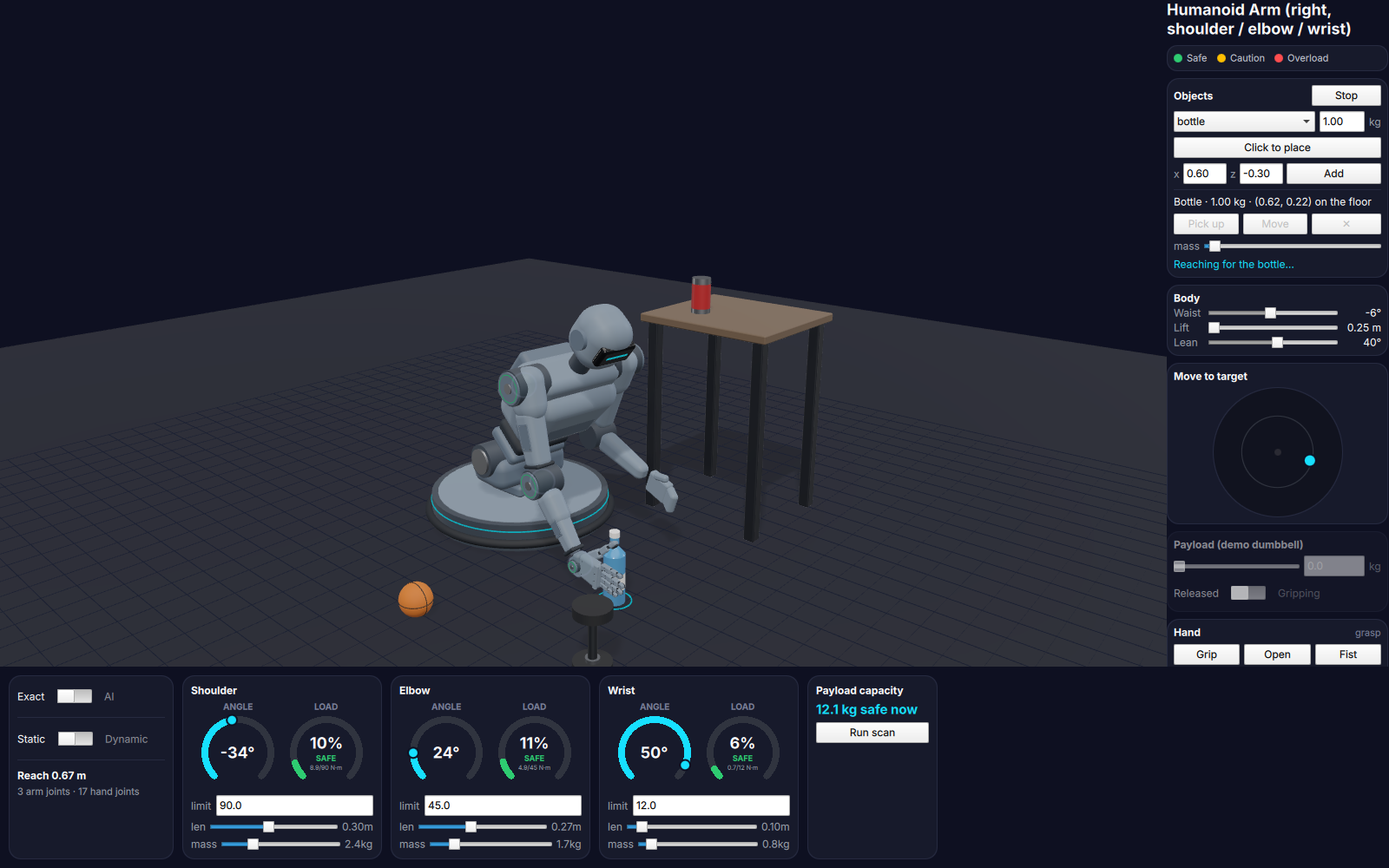
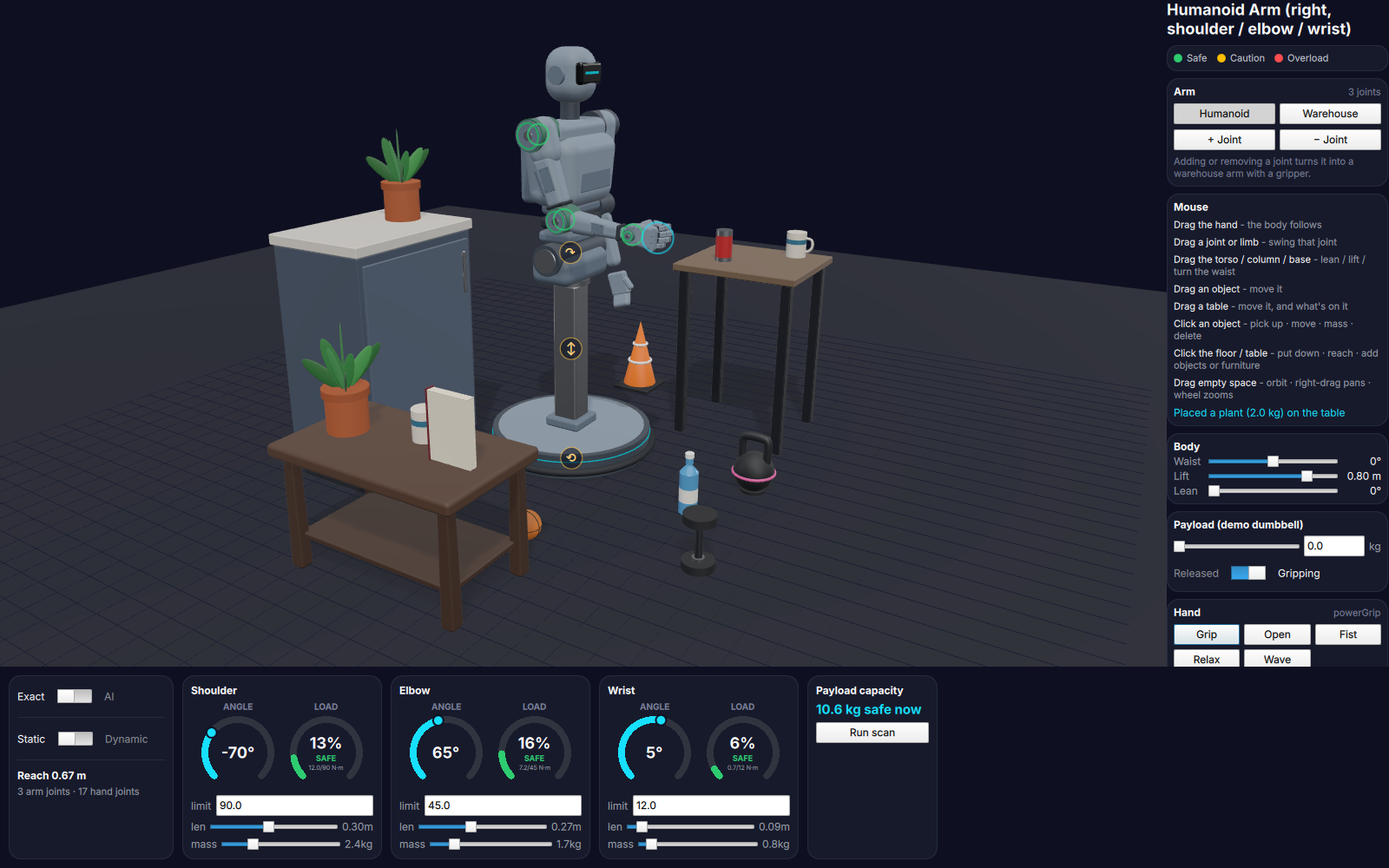
Rewrite the README for the Intro to AI midterm
Explains what the system does with fresh screenshots of the current app
(pick and place in four steps, overload colors, exact vs. neural-network
payload scan, dragging the hand, click menus, the hand, the warehouse
arm), where the AI is (agent/PEAS, the supervised-learning surrogate
with its real error numbers, search, optimization, planning), how the
physics and the interface work, and how to build, test and retrain.

diff --git a/README.md b/README.md
@@ -1,157 +1,242 @@
 # Humanoid Arm Load Analyzer
 
-**An interactive physics + AI tool for answering one question instantly: can this humanoid arm hold this weight, in this pose, without overloading a joint — and can the robot actually go pick it up?**
+**Can this robot hold that weight, in that pose, without overloading a joint, and can it go and pick the object up?**
 
-Built from scratch in C++ (kinematics, statics, full rigid-body dynamics), with a PyTorch-trained neural-network surrogate for the same torque computation, and a real-time Qt Quick 3D interface showing a humanoid on a mobile lift base — waist, lift and hip joints, a shoulder / elbow / wrist arm and a five-finger hand — that picks up the objects you put on the floor or the table, while every joint's load is analyzed live.
+A humanoid robot on a mobile lift base, simulated in real time. You put objects on the floor and on tables, drag the robot around with the mouse, and ask it to pick things up. Every joint's load is computed live: by an exact physics engine, or by a **neural network trained to imitate it**.
 
-![Full application overview](image/01-overview.png)
+> **Midterm project, Introduction to Artificial Intelligence**, by **HSley13**
+
+![The robot among furniture and objects](image/01-overview.png)
 
 ---
 
-## Why this exists
+## Contents
 
-Every joint of a humanoid robot's arm is driven by an actuator with a hard torque limit. Exceed it anywhere in the chain and the joint stalls, strains, or fails — and an arm held out straight with a bag in its hand is exactly where that happens first. Designers answer "how much can this arm carry, and where" once, at design time, for one set of limb lengths and masses. It can't answer "what if the forearm were longer," "what if the hand were heavier," or "what if the elbow were bent instead," because each of those needs the dynamics re-derived by hand.
+- [What it does](#what-it-does)
+- [Where the AI is](#where-the-ai-is)
+- [How it works](#how-it-works)
+- [Using it](#using-it)
+- [Tech stack](#tech-stack)
+- [Building and running](#building-and-running)
+- [Tests](#tests)
+- [Retraining the neural network](#retraining-the-neural-network)
+- [Project structure](#project-structure)
 
-This project removes that barrier: the arm's own geometry, mass, and payload are all editable live, and every "what if" is answered the instant it's asked — by dragging a slider, not by opening a textbook.
+---
 
-## What makes it interesting
+## What it does
 
-- **A real physics engine, not a wrapper.** Forward/inverse kinematics (Denavit-Hartenberg + joint-limited damped least-squares IK), Jacobian-transpose statics, and a full Recursive Newton-Euler dynamics derivation (gravity/inertia/Coriolis, individually decomposed and verified to sum exactly back to the total) — all written from first principles in C++ with Eigen.
-- **A humanoid, not a crane.** Human proportions (0.30 m upper arm, 0.27 m forearm), human-like joint travel (an elbow that can't bend backwards, enforced everywhere including IK), and a 17-joint, five-finger hand modeled as a kinematic *tree* — every finger hangs off the wrist, the thumb sits on its own opposable base.
-- **An AI surrogate that's measured, not just claimed.** A small PyTorch-trained MLP approximates the same torque function and runs through a dependency-free, hand-written C++ forward pass. Every payload scan reports real, measured timing for both paths side by side.
-- **A detailed 3D model generated from the kinematics.** Every phalanx shell, hinge pin and limb housing is placed from forward kinematics — change a finger length in the config and the hand re-renders correctly. The molded shells, seal bands, rings and objects are procedural meshes (`RoundedBoxGeometry`, `TubeGeometry`) written in C++ against `QQuick3DGeometry`.
-- **Driven with the mouse.** Grab the hand and drag it anywhere: the waist turns, the lift rises or sinks and the torso leans so the hand follows the cursor. A whole-body reach planner picks the goal pose (a few milliseconds per mouse move) and the body *moves* there at speeds its joints could manage, every part finishing together, so even a reach far beyond the arm is a visible turn-crouch-lean, never a jump. Grab a joint or a limb to swing just that joint; grab the torso, the column or the round base to lean, lift or turn the waist yourself. Drag objects and tables around; click an object for *pick up · move · mass · delete*, click the floor or a table for *put down here · reach here · add an object or furniture*.
-- **Pick and place, planned with the physics.** Put a bottle, can, mug, box, book, ball, traffic cone, potted plant, dumbbell or kettlebell (its color band follows its weight) on the floor, a table, a low coffee table or a kitchen-height counter - add and move as many of those as you like - and ask the robot to pick it up. A closed-form planner turns the waist toward it, lowers the lift and leans at the hip as needed, solves the arm's inverse kinematics *with the hand's orientation* (upright objects stay upright), and picks the pose that loads the joints least — or refuses with the reason ("too heavy - Shoulder would need 112 N·m (limit 90)"). While it's held, the object's mass is the arm's payload, so the gauges show what the robot is really carrying.
-- **The body moves without breaking the physics.** Turning about the vertical axis and lifting are pure rigid motions that don't change gravity torques; leaning at the hip tilts the arm *within its own plane*, which for a planar arm is exactly a shift of the shoulder angle — so the analyzer just turns gravity in the arm's frame and every number stays exact.
-- **The hand grips what it carries.** Each object size gets its own finger closure; the demo dumbbell in the Payload card gets a power grip.
-- **Load you can see.** Actuator housings and status rings glow green/amber/red with each joint's load, and the limb a struggling joint drives washes amber or red.
-- **Or make it a warehouse arm.** Add or remove a joint (or press *Warehouse*) and the right arm becomes an industrial arm with any number of servo joints and a parallel two-finger gripper; it picks from above when it can, from the side otherwise. *Humanoid* brings the human arm and hand back.
+### Picks things up, planned with the physics
 
-## See it in action
+Click an object, choose *Pick up*, and the robot works out how to reach it. It turns its waist toward it, lowers the lift, leans at the hip, and solves the arm's joint angles with the hand kept upright. Among all the poses that work, it prefers the one that loads the joints least. Then it approaches, grasps, lifts, carries, and puts the object down wherever you click. If it can't, it says why, for example *"too heavy - Shoulder would need 112 N·m (limit 90)"*.
 
-|                                                                                                                                         |                                                                                                                                     |
-| --------------------------------------------------------------------------------------------------------------------------------------- | ----------------------------------------------------------------------------------------------------------------------------------- |
-| ![Pick and place](image/03-pick-and-place.png) Pick and place: crouch and lean to reach a bottle on the floor, carry it, lean over the table, set it down upright. | ![The hand](image/02-hand.png) The five-finger hand carrying the bottle: molded shells, hinge gaps, screw heads, fingertip pads and nail plates. |
-| ![Overload](image/04-overload.png) Arm held straight out with a heavy dumbbell — every joint trips into OVERLOAD.                                                  | ![Payload scan](image/05-payload-scan.png) A payload-capacity scan from fully extended to folded, exact engine vs. AI surrogate.                   |
-| ![Drag the hand](image/06-drag-the-hand.png) Dragging the hand down to the ball: the waist turns, the lift lowers and the torso leans to follow. | ![Warehouse arm](image/07-warehouse-arm.png) The five-joint warehouse arm holding a can it picked from above with its gripper. |
-| ![Furniture and objects](image/08-furniture-and-objects.png) A counter, a coffee table and the table, with plants, mugs, a book, a cone and a kettlebell; amber handles on the hip, column and base. | |
+![Pick and place in four steps](image/03-pick-and-place.png)
 
-## Architecture
+While the robot holds an object, that object's mass is the arm's payload, so every gauge shows what the robot is really carrying.
 
-The application is split into three independent pieces that only ever share data through plain primitive types — never an internal C++ or ML-framework object crossing a boundary directly. That separation is what makes the Exact/AI comparison meaningful: both engines are called through the exact same interface, so switching between them (or benchmarking them) is a pure substitution.
+### Shows when a joint is overloaded
+
+Each joint has a motor with a torque limit. The gauges, the joint housings and the limbs turn **green** (under 60 % of the limit), **amber** (60-90 %) or **red** (90 % and above).
+
+![Arm held straight out with 14 kg: every joint overloaded](image/04-overload.png)
+
+### Exact physics vs. a neural network
+
+The same torque computation runs two ways: the exact physics engine, and a small neural network trained on that engine's output. The *Payload capacity* scan sweeps the arm from stretched out to folded, asks both "how many kg can it hold here?", and plots them on the same chart with their measured running times.
+
+![Payload capacity scan, exact engine vs. AI](image/05-payload-scan.png)
+
+The neural network's curve follows the exact one closely and is about **9× faster** (0.57 ms vs. 5.19 ms for 40 poses in the run above).
+
+### Driven with the mouse
+
+Grab the hand and drag it anywhere. The robot plans a whole-body pose for that point and **moves** there at speeds its joints could manage: it turns, crouches and leans, all parts finishing together, with no jumps. You can also grab the torso, the lift column or the round base to lean, lift or turn the waist yourself.
+
+![Dragging the hand down to the ball: waist turns, lift lowers, torso leans](image/06-drag-the-hand.png)
+
+Click an object or a spot to get a menu:
+
+![Click menus](image/08-click-menus.png)
+
+### A five-finger hand, or a warehouse gripper
+
+The hand has 17 joints and closes its fingers to fit each object's size.
+
+![The hand carrying a bottle](image/02-hand.png)
+
+Add or remove a joint (or press *Warehouse*) and the right arm becomes an industrial arm with as many joints as you like and a two-finger gripper. It grasps from above when it can and from the side otherwise. *Humanoid* brings the human arm back.
+
+![Five-joint warehouse arm holding a can it picked from above](image/07-warehouse-arm.png)
+
+### A scene you can build
+
+Ten kinds of objects: bottle, can, mug, box, book, ball, traffic cone, potted plant, dumbbell and kettlebell (its color band follows its weight). Three kinds of furniture: table, low coffee table and kitchen-height counter. Add as many as you like, drag them around (whatever stands on a table moves with it), change any object's mass.
+
+---
+
+## Where the AI is
+
+This project touches several of the main ideas of an introductory AI course.
+
+### 1. The robot as an intelligent agent
+
+| PEAS            | In this project                                                                                                         |
+| --------------- | ----------------------------------------------------------------------------------------------------------------------- |
+| **Performance** | Reach the goal (grasp the object, put it where asked) without exceeding any joint's torque limit or its range of motion |
+| **Environment** | Floor, tables, coffee tables, counters and objects of different shapes and masses, all placed by the user                   |
+| **Actuators**   | Waist (turn), lift (up/down), hip (lean), arm joints, 17 finger joints or a gripper                                     |
+| **Sensors**     | Object positions and sizes, the robot's own joint angles, and the torque each joint must produce                        |
+
+Each request is a **perceive → plan → act** cycle. The robot reads where the object is, plans a sequence of poses, then executes them with smooth, speed-limited motion. If the plan fails, it reports the reason instead of acting.
+
+### 2. Supervised learning: a neural network that imitates physics
+
+Computing joint torques exactly means walking the whole arm (kinematics, Jacobians, masses) for every pose. A **neural network** can learn the mapping *pose + payload → torques* and answer in one cheap forward pass.
 
 ```mermaid
 flowchart LR
-    U(["User input<br/>sliders · drags · config file"]) --> UI["Qt Quick 3D / QML frontend"]
-    UI --> AC["ArmController (C++)<br/>pose, payload, mode state"]
-    UI --> HC["HandController (C++)<br/>17-joint hand, gestures"]
-    UI --> TC["TaskController (C++)<br/>objects, body, pick / put-down"]
-    TC --> PLAN["Pick planner (core/)<br/>waist yaw · lift · hip lean · 3R IK"]
+    CFG["Arm description<br/>(JSON)"] --> GEN["Data generator (C++)<br/>random poses inside joint limits,<br/>payloads 0-40 kg"]
+    GEN -->|"labels from the exact<br/>physics engine"| DATA["30,000 training +<br/>3,000 validation samples"]
+    DATA --> TRAIN["PyTorch MLP<br/>MSE loss, Adam"]
+    TRAIN --> W["Weights (JSON),<br/>normalization folded in"]
+    W --> INF["Hand-written C++<br/>forward pass"]
+    INF --> APP["AI mode in the app"]
+```
+
+| | Static model | Dynamic model |
+| --- | --- | --- |
+| Input | 3 joint angles + payload (4) | angles, velocities, accelerations + payload (10) |
+| Network | 4 → 32 → 32 → 3, ReLU | 10 → 96 → 96 → 3, ReLU |
+| Output | 3 joint torques (N·m) | 3 joint torques (N·m) |
+| Validation mean abs. error | **1.15 N·m** (≈1.3 % of the shoulder's 90 N·m limit) | **0.86 N·m** |
+| Validation max abs. error | 19.9 N·m | 16.6 N·m |
+
+- **Labels come from the project's own physics engine**, called from C++, never re-derived in Python, so the network learns exactly the function it replaces.
+- **Training:** full-batch Adam (learning rate 10⁻³, step decay) on mean squared error, with inputs and outputs normalized. The normalization is then folded into the first and last layers, so the C++ side is just three matrix multiplies and two ReLUs, with no ML library at runtime.
+- **Generalization has limits, and the app respects them.** The network was trained for one arm. Change a limb's length or mass, or add a joint, and the training data no longer describes the arm. AI mode then switches off and the exact engine takes over, a concrete case of distribution shift.
+
+### 3. Search
+
+- **Payload capacity is a binary search.** It finds the largest payload whose torques stay within every joint's limit, using either the exact engine or the neural network as the evaluator.
+- **Grasp planning is generate-and-test search over body poses.** The candidates are a grid of lift heights × hip leans: every 2 cm × 5° for the humanoid arm, every 5 cm × 7.5° for other joint counts, where each candidate costs a numeric IK solve. For each, the waist yaw and the arm's angles are solved, and the pose is checked against the constraints: joint ranges, the floor, torque limits, and the hand's required orientation. The poses that pass are scored by a cost function: mainly the peak joint load (lightest wins), plus small penalties for leaning, for tilting the hand away from its preferred angle, and for moving the lift far. Grasp *options* are searched in order too: the gripper tries from above before from the side.
+- **Reaching for a dragged point is a cost-based choice.** The robot prefers the pose that changes its body least (waist turn, lift, lean and arm all weighted). Past its reach, it picks the posture that gets closest *without* swinging to a very different one from one mouse move to the next.
+
+### 4. Optimization
+
+- **Inverse kinematics** (which joint angles put the hand *here*?) minimizes the distance to the target with **damped least squares**, a Gauss-Newton / Levenberg-Marquardt step: Δq = Jᵀ(JJᵀ + λ²I)⁻¹ e. Joints that hit their limit are frozen and the rest re-solve (an active-set method).
+- For the humanoid's three-joint arm with the hand's angle fixed, there is also a **closed-form** solution. The planner uses it because it's exact and instant, and falls back to the numeric solver for any other joint count.
+
+### 5. Planning and acting
+
+A pick-up is a short plan of sub-goals: **approach → grasp → lift → carry**. A put-down is **move above → lower → release → retreat → home**. Each step is a target pose; the controller interpolates between them with eased motion, closes the hand or gripper at the right moment, and hands the object's mass to the physics as payload. Some steps are planned only when reached (the home pose is computed from wherever the arm actually ended up), which is a small form of replanning.
+
+---
+
+## How it works
+
+```mermaid
+flowchart LR
+    U(["Mouse · menus · panels"]) --> UI["Qt Quick 3D / QML interface"]
+    UI --> TC["TaskController<br/>scene, body, pick / put-down, dragging"]
+    UI --> AC["ArmController<br/>pose, payload, Exact / AI"]
+    UI --> HC["HandController<br/>17-joint hand, gestures"]
+    TC --> PLAN["Planner (core/)<br/>grasp search · reach · IK"]
     TC --> AC
     TC --> HC
-    AC -->|Exact mode| CORE["Physics engine (core/)<br/>kinematics -> statics / RNEA dynamics"]
-    AC -->|AI mode| ML["AI surrogate (ml/)<br/>trained MLP forward pass"]
-    HC --> TREE["Kinematic tree (core/)<br/>wrist + 5 finger chains"]
-    CORE --> CAP["Payload capacity search<br/>(shared binary-search algorithm)"]
-    ML --> CAP
-    CORE --> RES["Torque + safety result"]
-    ML --> RES
-    CAP --> RES
+    AC -->|Exact| PHYS["Physics engine (core/)<br/>kinematics → statics / dynamics"]
+    AC -->|AI| NN["Neural network (ml/)<br/>C++ forward pass"]
+    PHYS --> RES["Torques · safety · capacity"]
+    NN --> RES
     RES --> UI
-    TREE --> UI
-    UI --> OUT(["3D view · gauges · charts"])
 ```
 
-| Layer                | Path            | Responsibility                                                                                                                                                                         |
-| -------------------- | --------------- | -------------------------------------------------------------------------------------------------------------------------------------------------------------------------------------- |
-| Physics engine       | [`core/`](core) | C++17 + Eigen. Kinematics (serial arm + branching kinematic tree), statics, full RNEA dynamics, joint-limited IK, payload capacity search, hand gestures, grasp planning. No UI or ML dependency. |
-| AI surrogate         | [`ml/`](ml)     | A trained MLP, plus a small hand-written, dependency-free C++ inference class. A drop-in alternative torque evaluator trained on the physics engine's own output.                      |
-| Interactive frontend | [`app/`](app)   | Qt Quick 3D / QML. `ArmController`, `HandController` and `TaskController` expose only plain Qt types to QML; `app/geometry/` holds the procedural meshes the humanoid is built from.  |
+**Physics engine (`core/`, C++17 + Eigen, written from first principles):**
 
-### The humanoid model
+- **Kinematics:** each joint is described with Denavit-Hartenberg parameters; forward kinematics chains the transforms to get every joint's position. The hand is a kinematic *tree*: five finger chains branch off the wrist, each placed in the palm with a URDF-style origin (needed for the off-axis thumb).
+- **Statics:** the torque each joint needs to hold the pose, from the weight of every link and the payload, through the arm's Jacobian.
+- **Dynamics:** the full Recursive Newton-Euler algorithm, with gravity, inertia and Coriolis terms computed separately (tests check they add up exactly to the total).
+- **The body:** turning the waist and raising the lift don't change gravity torques. Leaning at the hip tilts the arm within its own plane, which is the same as rotating gravity in the arm's frame, so the analysis stays exact while the robot crouches and leans.
 
-| File                                                   | What it defines                                                                                                                                                           |
-| ------------------------------------------------------ | ------------------------------------------------------------------------------------------------------------------------------------------------------------------------- |
-| [`config/humanoid_arm.json`](config/humanoid_arm.json)   | Shoulder / elbow / wrist: DH geometry, link masses, actuator torque limits, named joints with travel limits (`min_deg`/`max_deg`).                                         |
-| [`config/humanoid_hand.json`](config/humanoid_hand.json) | A wrist chain (roll + deviation) and five finger chains. Each chain's `origin` (`xyz` + `rpy_deg`, URDF-style) places its base in the palm — something pure DH can't express for an off-axis thumb. |
-| [`core/.../pick_planner.hpp`](core/include/robotarm/pick_planner.hpp) | Grasp planning: waist yaw that puts the object beside the palm, closed-form planar 3R IK with hand orientation (numeric IK for any other joint count), a sweep over lift height x hip lean, torque-aware choice; `plan_reach` for dragging the hand (the smallest whole-body change that gets there). |
-| [`app/task_controller.hpp`](app/task_controller.hpp)     | Objects on the floor/table, the body's own joints, animated pick-up / put-down sequences that drive the arm, the hand and the payload.                                     |
-| [`app/qml/HumanoidBody3D.qml`](app/qml/HumanoidBody3D.qml) | Pelvis and hip joint, segmented abdomen, chest, head, a passive left arm, and the right arm's mount.                                                                     |
-| [`app/qml/HumanoidArm3D.qml`](app/qml/HumanoidArm3D.qml) | Actuators with status rings, deltoid cap, tapered limb shells, seal bands, service panels, the wrist housing.                                                             |
-| [`app/qml/IndustrialArm3D.qml`](app/qml/IndustrialArm3D.qml) | The warehouse arm: a servo drum with a load band per joint, box links, tool flange and a parallel gripper. |
-| [`app/qml/ArmView3D.qml`](app/qml/ArmView3D.qml), [`ObjectMenu.qml`](app/qml/ObjectMenu.qml), [`SpotMenu.qml`](app/qml/SpotMenu.qml) | The scene and all mouse handling: what a press grabbed (hand, joint, limb, object, nothing) and the click menus. |
-| [`app/qml/Hand3D.qml`](app/qml/Hand3D.qml)               | Palm shell, phalanges, hinge pins, fingertip pads, thumb base, and whatever the hand is holding — all placed from `HandController`'s forward kinematics.                  |
-| [`app/qml/LiftBase3D.qml`](app/qml/LiftBase3D.qml), [`SceneObject3D.qml`](app/qml/SceneObject3D.qml), [`Table3D.qml`](app/qml/Table3D.qml) | The mobile base with its telescoping column; the pickable objects; tables, coffee tables and counters. |
+**The interface (`app/`, Qt 6 Quick 3D):**
 
-The arm moves in a vertical plane (gravity in-plane), so the statics and dynamics stay the well-tested planar formulation; the body places that plane in the world (waist yaw, lift height, hip lean), the hand rides on the wrist in a neutral, thumb-up grip, and the grip point is the arm's end effector.
+- The robot, objects and furniture are built from procedural meshes (rounded shells, tubes) written in C++, and every part is placed from the forward kinematics. Change a limb length and the model follows.
+- The C++ controllers are exposed to QML as a QML module (`Humanoid.Backend`, using `QML_ELEMENT` + `QML_SINGLETON`). QML binds to their properties and calls their slots.
+- The mouse layer works out what a press grabbed (hand, joint, limb, torso, column, base, object, table or empty space) and turns mouse motion into joint motion through each point's on-screen velocity, so dragging feels right from any camera angle.
+- **QML hot reload:** save any `.qml` file and the window reloads in place, keeping the robot's state.
 
-### How the AI surrogate is trained
+### Robot specification
 
-Training labels are generated by calling the exact physics engine directly from C++ — never re-derived in Python — so the network is always learning this project's own physics, not a second, possibly-inconsistent implementation of it. Poses are sampled only inside each joint's configured travel.
+| Part | Details |
+| --- | --- |
+| Arm | shoulder / elbow / wrist: 0.30 m upper arm, 0.27 m forearm, 0.09 m hand link; torque limits 90 / 45 / 12 N·m |
+| Joint ranges | human-like: the elbow only bends one way, enforced everywhere, including inverse kinematics |
+| Hand | 17 joints: wrist roll + deviation, 5 fingers (the thumb on its own opposable base) |
+| Body | waist turn ±160°, lift 0.25-0.95 m (hip height), hip lean 0-75° |
+| Configs | [`config/humanoid_arm.json`](config/humanoid_arm.json), [`config/humanoid_hand.json`](config/humanoid_hand.json) |
 
-```mermaid
-flowchart LR
-    ARM["Arm config (JSON)"] --> GEN["tools/generate_*_training_data<br/>(C++, calls core/ physics engine)"]
-    GEN --> DATA["Labeled dataset<br/>pose + payload -> torque"]
-    DATA --> TRAIN["python/train_*_surrogate.py<br/>(PyTorch MLP)"]
-    TRAIN --> NORM["Normalization folded<br/>into exported weights"]
-    NORM --> WEIGHTS["surrogate.json weights"]
-    WEIGHTS --> INFER["ml/ Surrogate class<br/>(C++, dependency-free forward pass)"]
-    INFER --> APP["ArmController AI mode"]
-```
+---
+
+## Using it
+
+| Mouse                              | Does                                                    |
+| ---------------------------------- | ------------------------------------------------------- |
+| Drag the **hand** (cyan circle)    | The whole body follows                                  |
+| Drag a **joint** or a **limb**     | Swings that joint                                       |
+| Drag the **torso / column / base** (amber handles) | Lean / lift / turn the waist           |
+| Drag an **object** or a **table**  | Moves it (a table carries what's on it)                 |
+| Click an **object**                | Pick up · move to x, z · set mass · delete              |
+| Click the **floor** or a **table** | Put down here · reach here · add an object or furniture |
+| Drag empty space                   | Orbit the camera; right-drag pans; the wheel zooms      |
+
+The side panel switches **Humanoid / Warehouse**, adds or removes joints, and has sliders for the body, a demo payload and hand gestures. Each card in the bottom bar is one joint: its angle, its load gauge, and editable torque limit, length and mass. The bottom-left switches choose **Exact / AI** and **Static / Dynamic**.
+
+---
 
 ## Tech stack
 
-- **C++17**, **Eigen** (linear algebra), **nlohmann/json** (config I/O), **GoogleTest** (via CMake `FetchContent`)
-- **Qt 6 / Qt Quick 3D / QML** for the real-time interactive interface (custom `QQuick3DGeometry` meshes, image-based lighting)
-- **PyTorch** (training) + a hand-written C++ inference class (runtime) for the AI surrogate
-- **CMake** build system
+| Technology | Used for |
+| --- | --- |
+| **C++17** | physics engine, planner, neural-network inference, application |
+| **Eigen** | linear algebra (transforms, Jacobians, least squares) |
+| **Qt 6 · Qt Quick 3D · QML** | real-time 3D interface, procedural meshes, image-based lighting |
+| **PyTorch · NumPy** | training the neural networks |
+| **nlohmann/json** | robot configs and network weights |
+| **GoogleTest** | 256 unit and integration tests |
+| **CMake** | build (with `qt_add_qml_module`) |
 
-### How C++ meets QML
-
-The C++ side is two QML modules built with `qt_add_qml_module`, so QML imports real types instead of names injected at runtime:
-
-| Module | Types | Used in QML as |
-| --- | --- | --- |
-| `Humanoid.Backend` (library `robotarm_app_core`) | `ArmController`, `HandController`, `TaskController` - `QML_ELEMENT` + `QML_SINGLETON` | `ArmController.jointCount`, `TaskController.pickUp(id)`, `Connections { target: TaskController; function onTablesChanged() {} }` |
-| `Humanoid.Geometry` (the executable) | `RoundedBoxGeometry`, `TubeGeometry` - `QML_ELEMENT` | `Model { geometry: RoundedBoxGeometry { size: ... } }` |
-
-- **Properties** (`Q_PROPERTY` with `NOTIFY`) are what QML binds to; **signals** can be handled in QML with `Connections`.
-- **Actions** (`addJoint`, `pickUp`, `reachTo`, `playGesture`, ...) are `public slots`: callable from QML like functions, and connectable from C++. Read-only queries that return a value stay `Q_INVOKABLE`.
-- **One shared instance.** The controllers need their config files and each other, so `main()` builds them and registers each with `setQmlInstance()`; the singleton's static `create()` hands QML that instance (`app/qml_singleton.hpp`).
-- **Hot reload.** Only C++ types are in the modules; the UI's `.qml` files are loaded from `app/qml` on disk, and `QmlHotReloader` reloads the window when one is saved. The C++ state (pose, objects, tables) survives a reload.
-- **Editor support.** The build writes the modules' type info to `build/qml/`. For QML completion and diagnostics in an editor through `qmlls`, run it with `-b build` (or set `buildDir` in a `.qmlls.ini`) so it finds `Humanoid.Backend` and `Humanoid.Geometry`.
+---
 
 ## Building and running
 
-Requires Qt 6.5+ (Quick 3D + Quick Dialogs 2), Eigen3, and nlohmann-json on your system.
+Requires a C++17 compiler, CMake ≥ 3.21, Qt 6.5+ (Quick, Quick 3D, Quick Controls 2, Quick Dialogs 2), Eigen 3 and nlohmann-json.
 
 ```bash
-cmake -B build -DCMAKE_PREFIX_PATH=/path/to/Qt  # e.g. /usr/local/Qt-6.10.0
+cmake -B build -DCMAKE_PREFIX_PATH=/path/to/Qt    # e.g. /usr/local/Qt-6.10.0
 cmake --build build
 ./build/bin/robotarm_app
 ```
 
-Useful flags (all optional — mainly for reproducible screenshots):
+On macOS with Homebrew this works even if Homebrew also has a different Qt installed, and from folders whose path contains spaces. The build includes workarounds for both.
+
+Optional launch flags, mostly for reproducible scenes and screenshots:
 
 ```bash
-./build/bin/robotarm_app --pose -35,80,-10 --payload 6        # shoulder,elbow,wrist degrees; kg in hand
-./build/bin/robotarm_app --camera 40,-12,0.9 --focus 0.3,0.95,0.15
-./build/bin/robotarm_app --pick 1 --put 0.6,-0.62 --at 9        # scripted pick + put-down, stopped 9 s in
-./build/bin/robotarm_app --industrial 5 --pick 3                # start as a 5-joint warehouse arm, pick the can
-./build/bin/robotarm_app --table "counter,-0.55,0.45" --add "plant,-0.55,0.30" --add "kettlebell,0.75,-0.05"
-./build/bin/robotarm_app --scan 40 --screenshot shot.png      # run a payload scan, save a PNG, quit
+./build/bin/robotarm_app --pose -35,80,-10 --payload 6                 # arm angles (deg), kg in the hand
+./build/bin/robotarm_app --pick 1 --put 0.55,-0.6                      # scripted pick-up and put-down
+./build/bin/robotarm_app --industrial 5 --pick 3                       # 5-joint warehouse arm picks the can
+./build/bin/robotarm_app --table "counter,-0.55,0.45" --add "plant,-0.55,0.30"
+./build/bin/robotarm_app --scan 40 --camera 60,-10,2.4 --screenshot shot.png
 ```
 
-### Running the tests
+## Tests
 
 ```bash
 ctest --test-dir build
 ```
 
-GoogleTest suites cover every physics module (kinematics, kinematic trees with chain origins, statics, dynamics, trajectories, joint-limited inverse kinematics, payload capacity, grasp planning, the AI surrogates, config parsing) plus the Qt-facing `ArmController` / `HandController` / `TaskController` layer, including whole pick-and-place sequences stepped in simulated time. Generic engine tests run against small fixtures in [`tests/fixtures/`](tests/fixtures).
+256 tests in 20 suites cover every physics module (kinematics, kinematic trees, statics, dynamics, trajectories, inverse kinematics, payload capacity, grasp and reach planning, the neural-network surrogates, config parsing). They also cover the application layer, including whole pick-and-place sequences stepped in simulated time with both the hand and the gripper, for every object type, and QML loading the C++ module.
 
-### Retraining the AI surrogate (optional)
+## Retraining the neural network
 
 ```bash
 python3 -m venv python/.venv && source python/.venv/bin/activate
@@ -161,20 +246,25 @@ pip install -r python/requirements.txt
 python3 python/train_surrogate.py --arm-name humanoid_arm --num-joints 3 --hidden-dim 32
 ```
 
-(`train_dynamic_surrogate.py` works the same way with `generate_dynamic_training_data` — see its docstring.)
+The generator's arguments are: config, output file, number of samples, random seed, gravity vector, maximum payload in kg. `train_dynamic_surrogate.py` and `generate_dynamic_training_data` do the same for the dynamic model.
 
 ## Project structure
 
 ```
-core/       physics engine - kinematics, kinematic tree, statics, RNEA dynamics, IK, payload capacity, hand gestures, pick planner
-ml/         AI surrogate - C++ inference class + trained humanoid-arm weights
-app/        Qt Quick 3D / QML interface, Arm/Hand/TaskController bridges, procedural geometry (app/geometry/)
-config/     humanoid_arm.json, humanoid_hand.json
-tools/      C++ training-data generators (reuse the exact physics engine), studio lighting generator
+core/       physics engine: kinematics, kinematic tree, statics, dynamics, IK, payload capacity, planner
+ml/         neural-network inference (C++) + trained weights
+app/        Qt Quick 3D interface, the C++ controllers, procedural meshes (app/geometry/)
+config/     the robot's arm and hand
+tools/      training-data generators (call the physics engine), lighting generator
 python/     PyTorch training scripts
-tests/      GoogleTest suite + engine test fixtures
-archive/    the project's earlier industrial 3-DOF arm (configs, weights, screenshots) - unused by the app
+tests/      GoogleTest suites
+image/      screenshots used in this README
+archive/    the project's earlier industrial 3-DOF arm (not used by the app)
 ```
+
+## Author
+
+**HSley13**
 
 ## License
 
